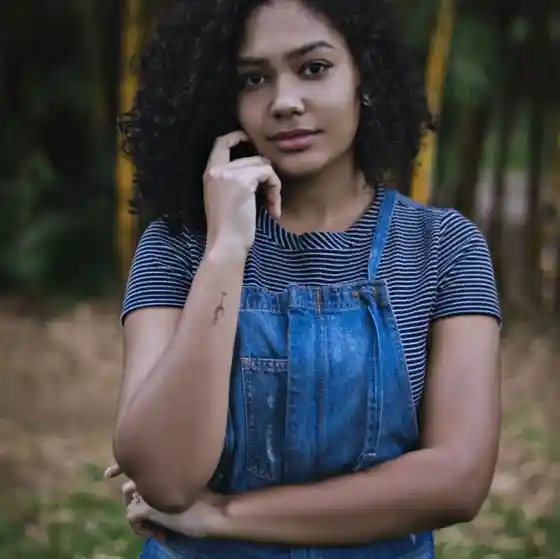
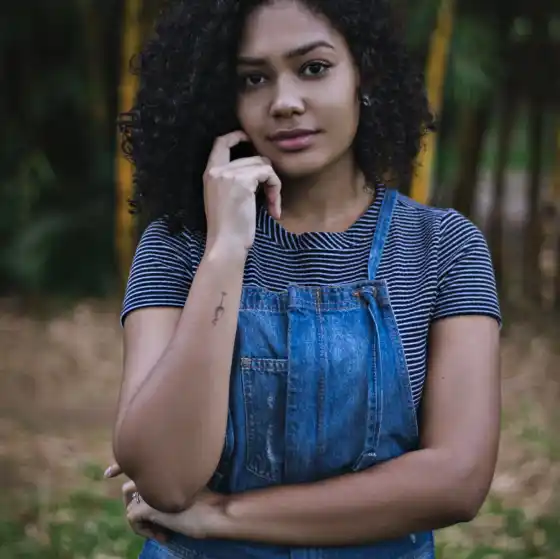
perf: resize images & test another compression method

diff --git a/index.html b/index.html
@@ -2,13 +2,13 @@
 <html>
 <head>
 	<meta name="viewport" content="width=device-width, initial-scale=1.0">
-	<link rel="stylesheet" href="./assets/bootstrap/bootstrap.css">
+	<link rel="stylesheet" href="./assets/bootstrap/bootstrap.min.css">
 	<link rel="stylesheet" href="./assets/style.css">
 	<link rel="preconnect" href="https://fonts.googleapis.com">
 	<link rel="preconnect" href="https://fonts.gstatic.com" crossorigin>
 	<link href="https://fonts.googleapis.com/css2?family=Inter&family=Spectral:ital,wght@0,400;1,300;1,400;1,800&display=swap" rel="stylesheet">
 	<meta charset="UTF-8">
-	<script src="./assets/bootstrap/bootstrap.bundle.js"></script>
+	<script src="./assets/bootstrap/bootstrap.bundle.min.js"></script>
 	<script src="https://code.jquery.com/jquery-3.4.1.min.js" integrity="sha256-CSXorXvZcTkaix6Yvo6HppcZGetbYMGWSFlBw8HfCJo=" crossorigin="anonymous"></script>
 	<script src="./assets/maugallery.js"></script>
 	<script src="./assets/scripts.js"></script>
@@ -22,7 +22,7 @@
 			<li><a href="#gallery">Galerie</a></li>
 			<li><a href="#services">Service</a></li>
 			<li><a href="#contact">Contact</a></li>
-			<li><a class="social-link" href="https://www.instagram.com/ninacarducci.photo/?hl=fr" target="_blank"><img src="assets/images/instagram.webp" alt=""></a></li>
+			<li><a class="social-link" href="https://www.instagram.com/ninacarducci.photo/?hl=fr" target="_blank"><img src="assets/images/instagram.png" alt=""></a></li>
 		</ul>
 	</div>
 </div>
@@ -150,7 +150,7 @@
 			</form>
 		</div>
 		<div class="picture right">
-			<img src="./assets/images/camera.webp">
+			<img src="./assets/images/camera.webp" class="camera" >
 		</div>
 	</div>
 </div>

diff --git a/assets/style.css b/assets/style.css
@@ -72,7 +72,7 @@ body {
 
 }
 #about-me {
-	flex: 2
+	flex: 2;
 }
 .about-me__title {
 	margin-top: 1em;
@@ -88,6 +88,11 @@ body {
 #about-me p {
 	width: 80%;
 	font-size: 14px;
+}
+
+.camera{
+	width: 419px;
+	height: 418px;
 }
 
 #gallery {
